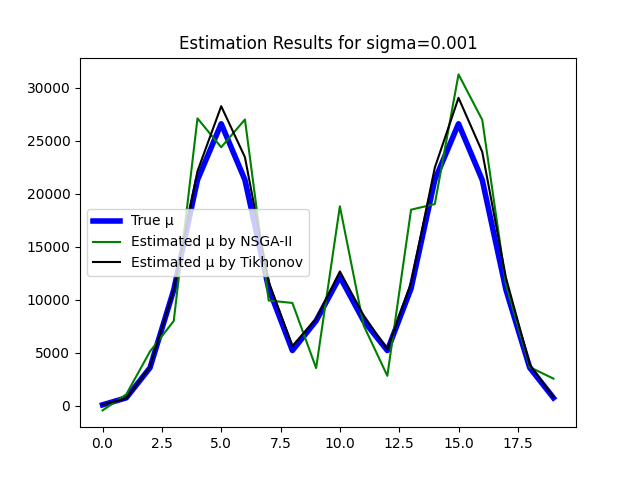
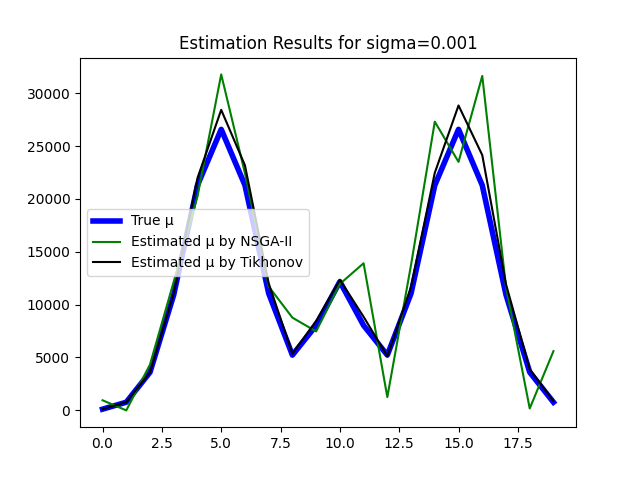
impreved nsga2

diff --git a/MO/NSGA_II.py b/MO/NSGA_II.py
@@ -1,12 +1,16 @@
-import random
 import numpy as np
 import matplotlib.pyplot as plt
 from collections import defaultdict
-
 from tqdm import tqdm
-
-
 from pymoo.operators.sampling.rnd import FloatRandomSampling
+# from pymoo.util.random import set_random_seed
+
+# pymoo_seed = 42
+# numpy_seed = 42
+
+# np.random.seed(numpy_seed)
+# set_random_seed(pymoo_seed)
+
 
 class Individual:
     def __init__(self, point, problem):
@@ -19,13 +23,14 @@ class Individual:
 
 
 class NSGA2:
-    def __init__(self, generations, population_size, mutaition_rate, problem):
+    def __init__(self, generations, population_size, mutaition_rate, problem, objective1_threshold=None):
         self.population_size = population_size
         self.mutation_rate = mutaition_rate
         self.problem = problem
         self.n_var = self.problem.n_var
         self.n_obj = self.problem.n_obj
         self.sampling = FloatRandomSampling()
+        self.objective1_threshold = objective1_threshold
         self.run(generations)
         
     
@@ -122,9 +127,9 @@ class NSGA2:
         # Recorrer cada elemento en el punto
         for i in range(len(point)):
             # Aplicar la mutación con una probabilidad igual a mutation_rate
-            if random.random() < mutation_rate:
+            if np.random.rand() < mutation_rate:
                 # Añadir un pequeño número aleatorio al elemento
-                point[i] += random.uniform(-mutation_magnitude, mutation_magnitude)
+                point[i] += np.random.uniform(-mutation_magnitude, mutation_magnitude)
 
         # Crear un nuevo individuo con el punto mutado
         point = np.array(point)
@@ -168,6 +173,12 @@ class NSGA2:
             
             self.Q_t = self.generate_offspring(self.P_t, self.mutation_rate, t, generations)
 
+            # check if the first objective is below the objective1_threshold
+            if self.objective1_threshold is not None:
+                min_obj1 = min([individual.values[0] for individual in self.P_t])
+                if min_obj1 < self.objective1_threshold:
+                    print(f"First objective below threshold at generation {t} value: {min_obj1} is below {self.objective1_threshold}.")
+                    break
 
 
         # if self.n_obj == 2:

diff --git a/nsga2_proves.py b/nsga2_proves.py
@@ -1,0 +1,53 @@
+import matplotlib.pyplot as plt
+
+
+from MO.MOP_Definition import ImageReconstructionProblem
+from MO.NSGA_II import NSGA2
+from SSM.Estimation import estimation
+from SSM.Generate_Linear_Model import generate_linear_model
+from SSM.Generate_Measurements import generate_measurements
+from SSM.Generate_SSM_Model import generate_ssm_model
+
+from SSM.Set_Settings import set_settings
+
+model, PROBE, signal = set_settings(example=1)
+
+# Generate SSM model
+model = generate_ssm_model(model, PROBE)
+
+# Generate linear model
+MODEL = generate_linear_model(model, signal, PROBE)
+
+# Generate measurements
+SIGNAL = generate_measurements(signal, MODEL)
+
+# Estimation
+ESTIMATION_RESULTS = estimation(MODEL, SIGNAL)
+
+# =================================================== MO ===================================================
+# Problem
+PROBLEM = ImageReconstructionProblem(MODEL, PROBE, SIGNAL)
+
+# NSGA-II
+nsga2 = NSGA2(generations=500, population_size=100, mutaition_rate=0.8, problem=PROBLEM, objective1_threshold=0.01)
+x = [individual.values[0] for individual in nsga2.P_t]
+y = [individual.values[1] for individual in nsga2.P_t]
+
+best_individual_nsga2 = min(nsga2.P_t, key=lambda p: p.values[0])
+best_point_nsga2 = best_individual_nsga2.point
+
+mu_est_nsga2 = PROBLEM.mo_estimation(best_point_nsga2.reshape(20, 1))
+
+plt.figure()
+plt.scatter(x, y, c='red')
+plt.xlabel('f1')
+plt.ylabel('f2')
+plt.savefig('pareto_front_proves.png')
+plt.close()
+
+plt.figure()
+plt.plot(mu_est_nsga2, label='nsga2')
+plt.plot(PROBE.mu, label='true')
+plt.legend()
+plt.savefig('nsga2proves.png')
+plt.close()

diff --git a/main.py b/main.py
@@ -29,7 +29,7 @@ ESTIMATION_RESULTS = estimation(MODEL, SIGNAL)
 PROBLEM = ImageReconstructionProblem(MODEL, PROBE, SIGNAL)
 
 # NSGA-II
-nsga2 = NSGA2(generations=500, population_size=100, mutaition_rate=0.8, problem=PROBLEM)
+nsga2 = NSGA2(generations=460, population_size=100, mutaition_rate=0.8, problem=PROBLEM, objective1_threshold=0.01)
 x = [individual.values[0] for individual in nsga2.P_t]
 y = [individual.values[1] for individual in nsga2.P_t]
 
@@ -56,7 +56,7 @@ with open("results2.csv", mode='w', newline='') as file:
 
         # MO
         PROBLEM = ImageReconstructionProblem(MODEL, PROBE, SIGNAL)
-        nsga2 = NSGA2(generations=500, population_size=100, mutaition_rate=0.8, problem=PROBLEM)
+        nsga2 = NSGA2(generations=500, population_size=100, mutaition_rate=0.8, problem=PROBLEM, objective1_threshold=0.01)
         x = [individual.values[0] for individual in nsga2.P_t]
         y = [individual.values[1] for individual in nsga2.P_t]
         best_individual_nsga2 = min(nsga2.P_t, key=lambda p: p.values[0])

diff --git a/MO/MOP_Definition.py b/MO/MOP_Definition.py
@@ -11,13 +11,13 @@ class ImageReconstructionProblem(Problem):
         self.SIGNAL = SIGNAL
         self.n_var = 20
         self.n_obj = 2
-        Problem.__init__(self, n_var=self.n_var, n_obj=self.n_obj, n_constr=0, xl=750, xu=2000)
+        Problem.__init__(self, n_var=self.n_var, n_obj=self.n_obj, n_constr=0, xl=800, xu=2000)
         
     def f1(self, x):
         res = self.SIGNAL.y - self.MODEL.H @ x
+        # magnitude = np.linalg.norm(res, ord=2)
         squared = np.sum(res**2)
-        return  squared
-    
+        return squared
     
     def f2(self, x):
         return -np.linalg.norm(x, ord=2)
